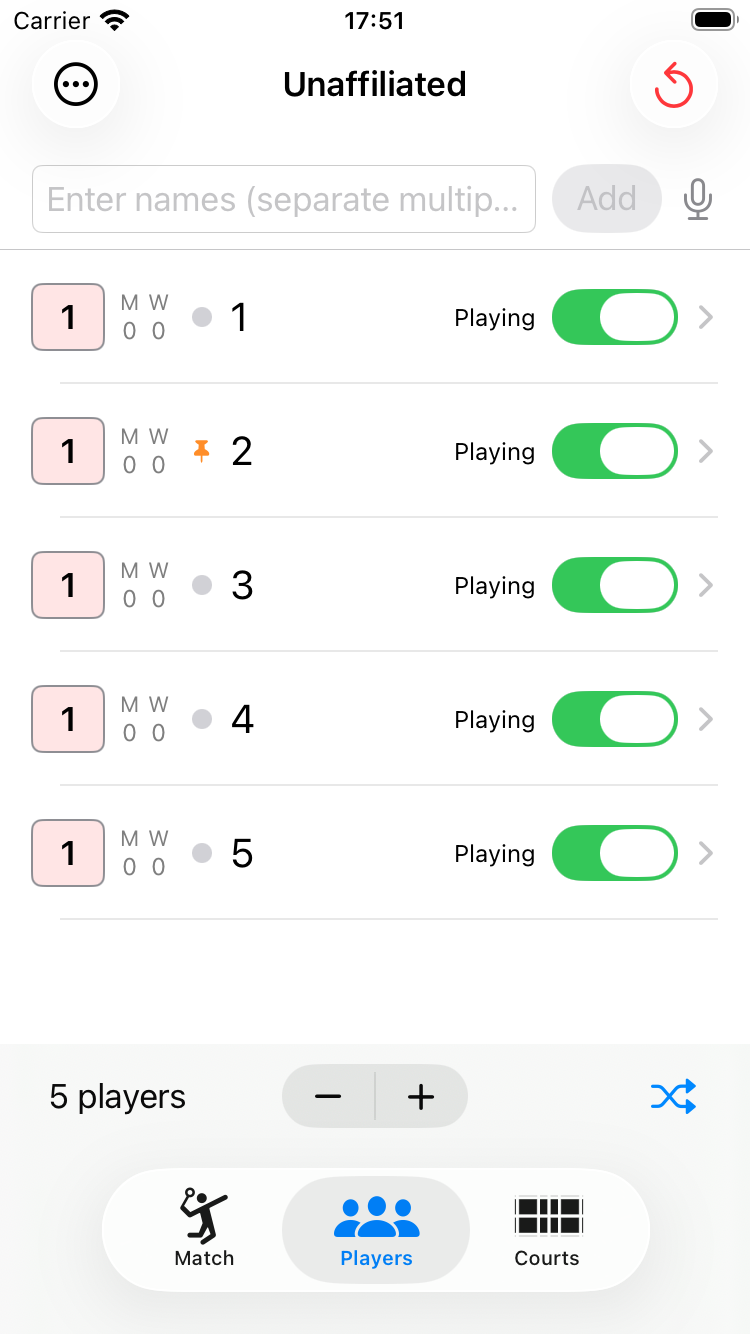
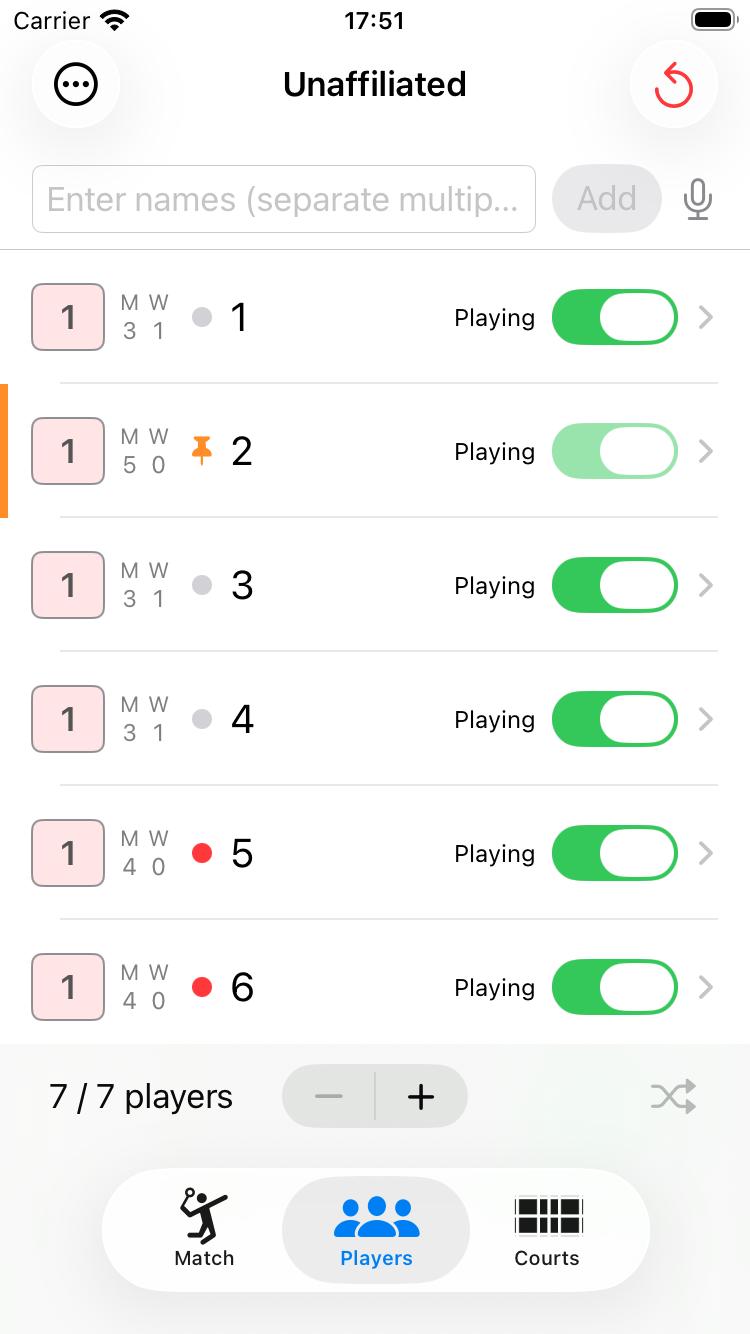
PairGen 1.23.0: ピン留め画像更新、プレイヤー削除後の遷移変更を反映

diff --git a/players-tab.html b/players-tab.html
@@ -54,6 +54,7 @@
 <div class="tip">💡 画面上部のテキストフィールドに名前を入力して <code>Add</code>（追加）をタップすると、名前付きでプレイヤーを追加することもできます。カンマ区切りで複数名を一度に入力できます（例：<code>Alice, Bob, Carol, Dave</code>）。マイクアイコンで音声入力も使えます。</div>
 <div class="tip">💡 プレイヤーの追加は、組み合わせ生成後や試合の途中からでも自由に行えます。飛び入り参加にもそのまま対応できます。</div>
 <div class="note">⚠ 一度組み合わせを生成すると、既存の組み合わせとの整合性を保つため、<code>－</code> ボタンやリストのスワイプ削除では、その生成時点の人数より減らせなくなります（試合結果をリセットすると再び自由に増減できます）。編集画面右上のゴミ箱アイコンからの削除は、この制限に関わらず常に行えます。</div>
+<div class="tip">💡 編集画面右上のゴミ箱アイコンで削除すると、一覧に戻らずそのまま次のプレイヤー（末尾を削除した場合は前のプレイヤー）の編集画面に切り替わります。複数人まとめて削除したいときに便利です。</div>
 
 <h2 id="reset-players">2. プレイヤーのリセット</h2>
 <p>Players タブ右上の <code>↩</code>（リセット）ボタンをタップすると、確認アラート「Reset Players」（プレイヤーをリセット）が表示されます。<strong>Reset</strong>（リセット）を選ぶと、現在登録されているプレイヤーと試合結果がすべて削除され、初期状態の4人にリセットされます。</p>
@@ -98,9 +99,10 @@
 <div class="tip">💡 右側の「Playing（出場中） / Resting（休憩中） / Absent（欠席）」表示は出場設定（休憩トグル）を示すもので、この丸印とは意味が異なります。丸印はあくまで「いまコートで試合中かどうか」を表します。</div>
 
 <h2 id="pin">10. ピン留めで優先出場させる</h2>
-<p>丸印をタップすると、そのプレイヤーはピン留め状態になり、丸印の代わりにピンのアイコンが表示されます。ピン留めされたプレイヤーは、待ち回数に関わらず次の組み合わせで最優先に選ばれます。もう一度ピンのアイコンをタップすると、ピン留めが解除されて丸印表示に戻ります。</p>
+<p>丸印をタップすると、そのプレイヤーはピン留め状態になり、丸印の代わりにピンのアイコンが表示され、行の左端にオレンジのアクセントバーが付いて一覧上で目立つようになります。ピン留めされたプレイヤーは、待ち回数に関わらず次の組み合わせで最優先に選ばれます。もう一度ピンのアイコンをタップすると、ピン留めが解除されて丸印表示に戻ります。</p>
 <div class="ss"><img src="images/players-pin.png" alt="ピン留め表示"></div>
 <div class="tip">💡 固定ペアを組んでいる場合、ピン留め・解除はペア相手にも連動します。また、休憩中のプレイヤーをピン留めすると、休憩状態は自動的に解除されます。</div>
+<div class="tip">💡 ピン留め中は「Playing」トグルが無効化され、休憩状態に変更できません。休ませたい場合は、先にピンのアイコンをタップして解除してください。</div>
 <div class="tip">💡 ピン留めは保存されない一時的な指定です。アプリを再起動したり、メンバーを読み込み直したりするとリセットされます。</div>
 
 <h2 id="save-load">11. メンバーを保存・読み込む</h2>

diff --git a/home.html b/home.html
@@ -70,6 +70,7 @@
   <li>iCloud同期したグループ名（All・Unaffiliated）が、保存時と異なる言語設定の端末で翻訳されずに表示されることがある不具合を修正</li>
   <li>プレイヤー一覧のピン留め表示を強調し、ピン留め中は出場状態を「休憩」に変更できないように変更（解除するには先にピンを外す必要があります）</li>
   <li>固定ペアの配色、フリーモードのコート色、プレイヤー編集画面のレイアウトなど、見た目を細かく改善</li>
+  <li>プレイヤー編集画面のゴミ箱アイコンで削除すると、一覧に戻らずそのまま次（末尾を削除した場合は前）のプレイヤーの編集画面に切り替わるように変更</li>
 </ul>
 
 <h2>フィードバック</h2>

diff --git a/index.html b/index.html
@@ -70,6 +70,7 @@
   <li>iCloud同期したグループ名（All・Unaffiliated）が、保存時と異なる言語設定の端末で翻訳されずに表示されることがある不具合を修正</li>
   <li>プレイヤー一覧のピン留め表示を強調し、ピン留め中は出場状態を「休憩」に変更できないように変更（解除するには先にピンを外す必要があります）</li>
   <li>固定ペアの配色、フリーモードのコート色、プレイヤー編集画面のレイアウトなど、見た目を細かく改善</li>
+  <li>プレイヤー編集画面のゴミ箱アイコンで削除すると、一覧に戻らずそのまま次（末尾を削除した場合は前）のプレイヤーの編集画面に切り替わるように変更</li>
 </ul>
 
 <h2>フィードバック</h2>

diff --git a/update-history.html b/update-history.html
@@ -23,6 +23,7 @@
   <li>iCloud同期したグループ名（All・Unaffiliated）が、保存時と異なる言語設定の端末で翻訳されずに表示されることがある不具合を修正</li>
   <li>プレイヤー一覧のピン留め表示を強調し、ピン留め中は出場状態を「休憩」に変更できないように変更（解除するには先にピンを外す必要があります）</li>
   <li>固定ペアの配色、フリーモードのコート色、プレイヤー編集画面のレイアウトなど、見た目を細かく改善</li>
+  <li>プレイヤー編集画面のゴミ箱アイコンで削除すると、一覧に戻らずそのまま次（末尾を削除した場合は前）のプレイヤーの編集画面に切り替わるように変更</li>
 </ul>
 
 <h2>v1.22.0</h2>
